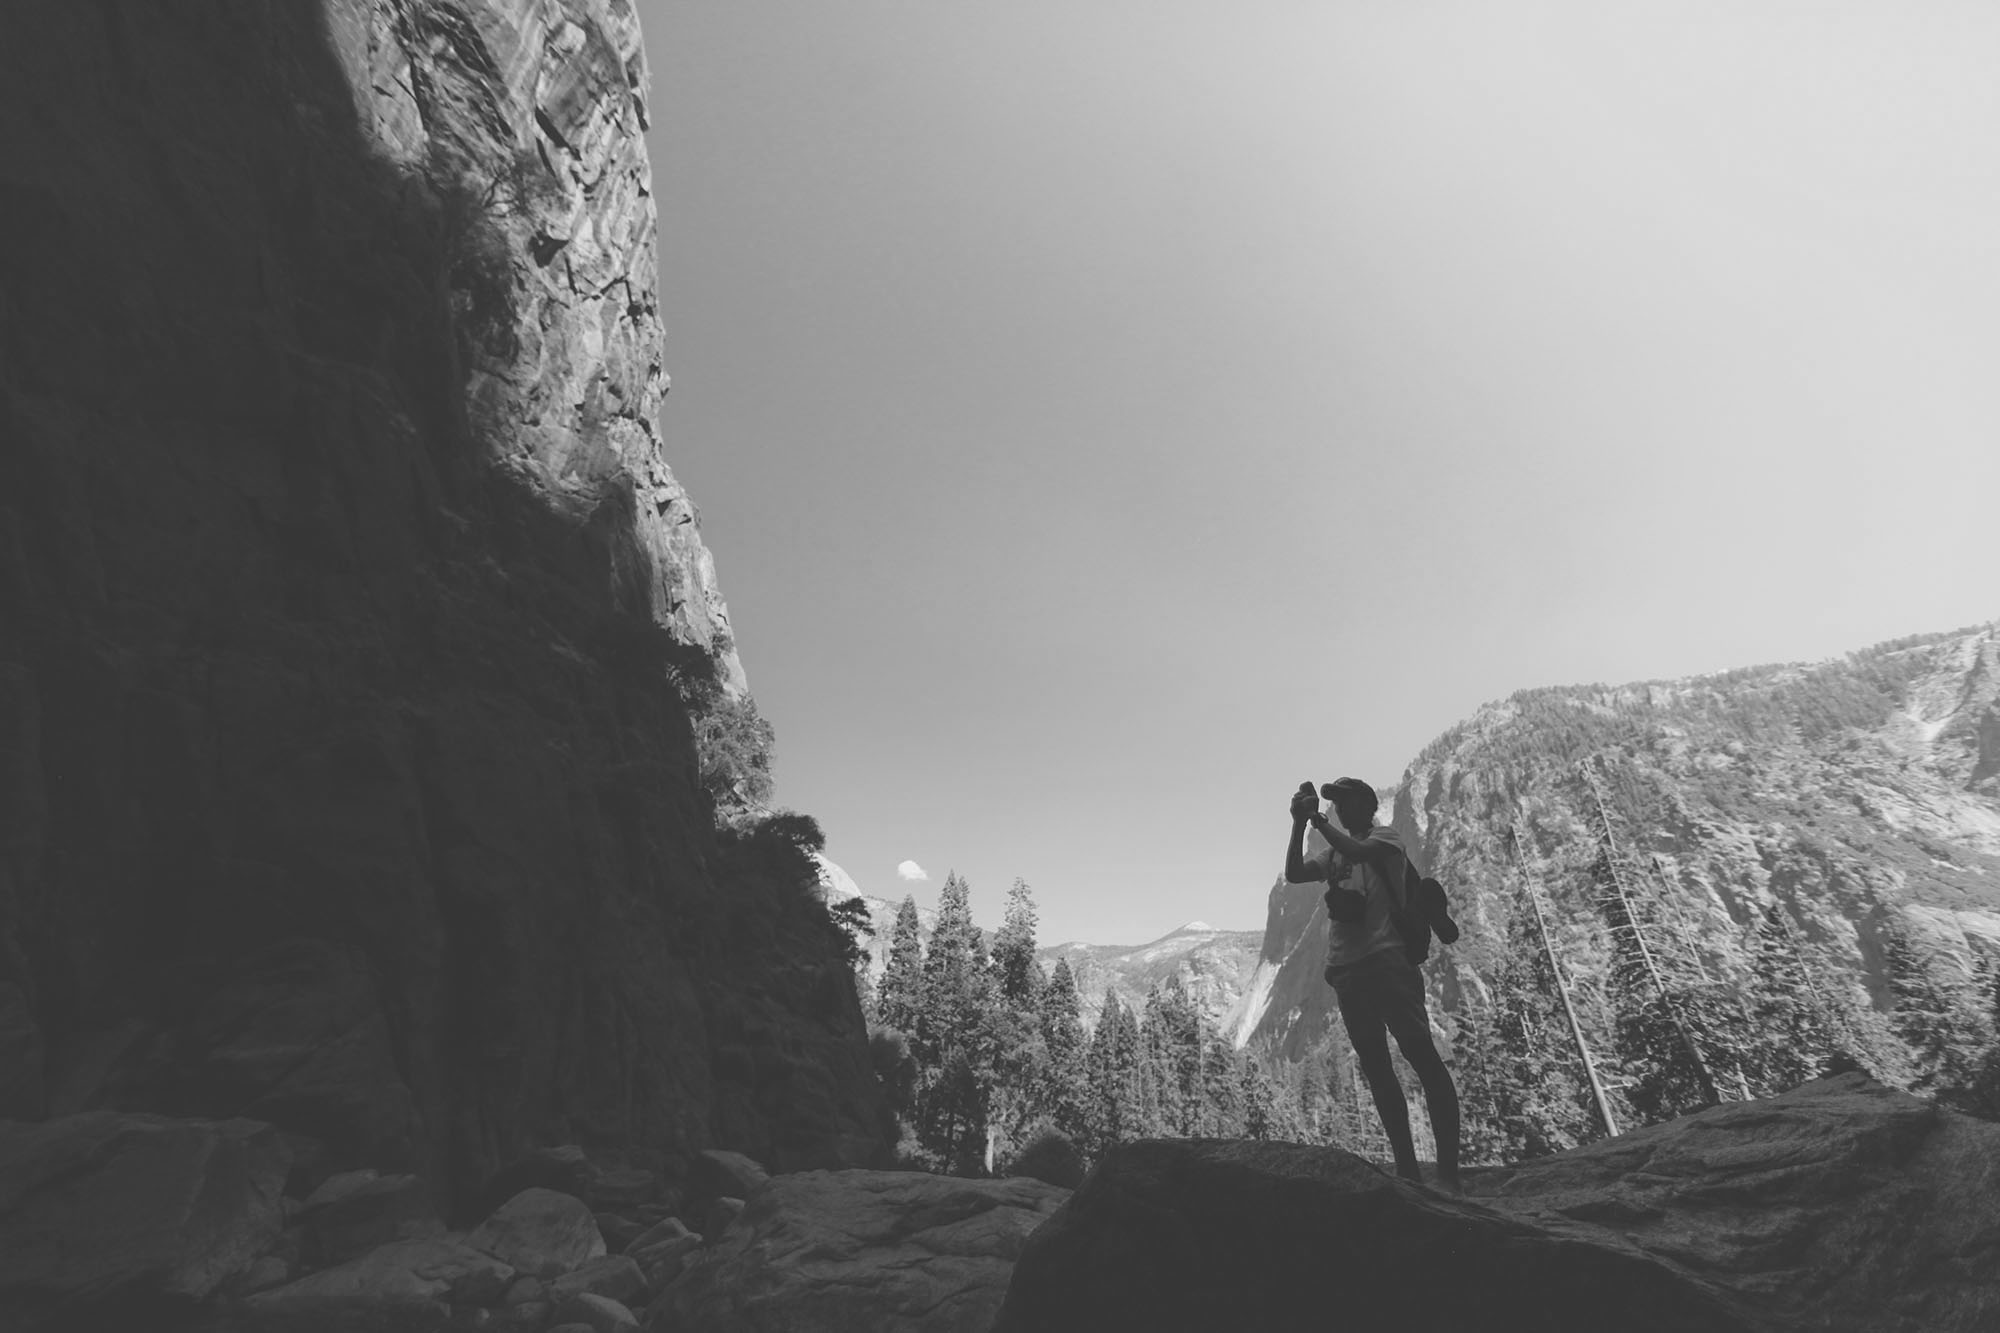
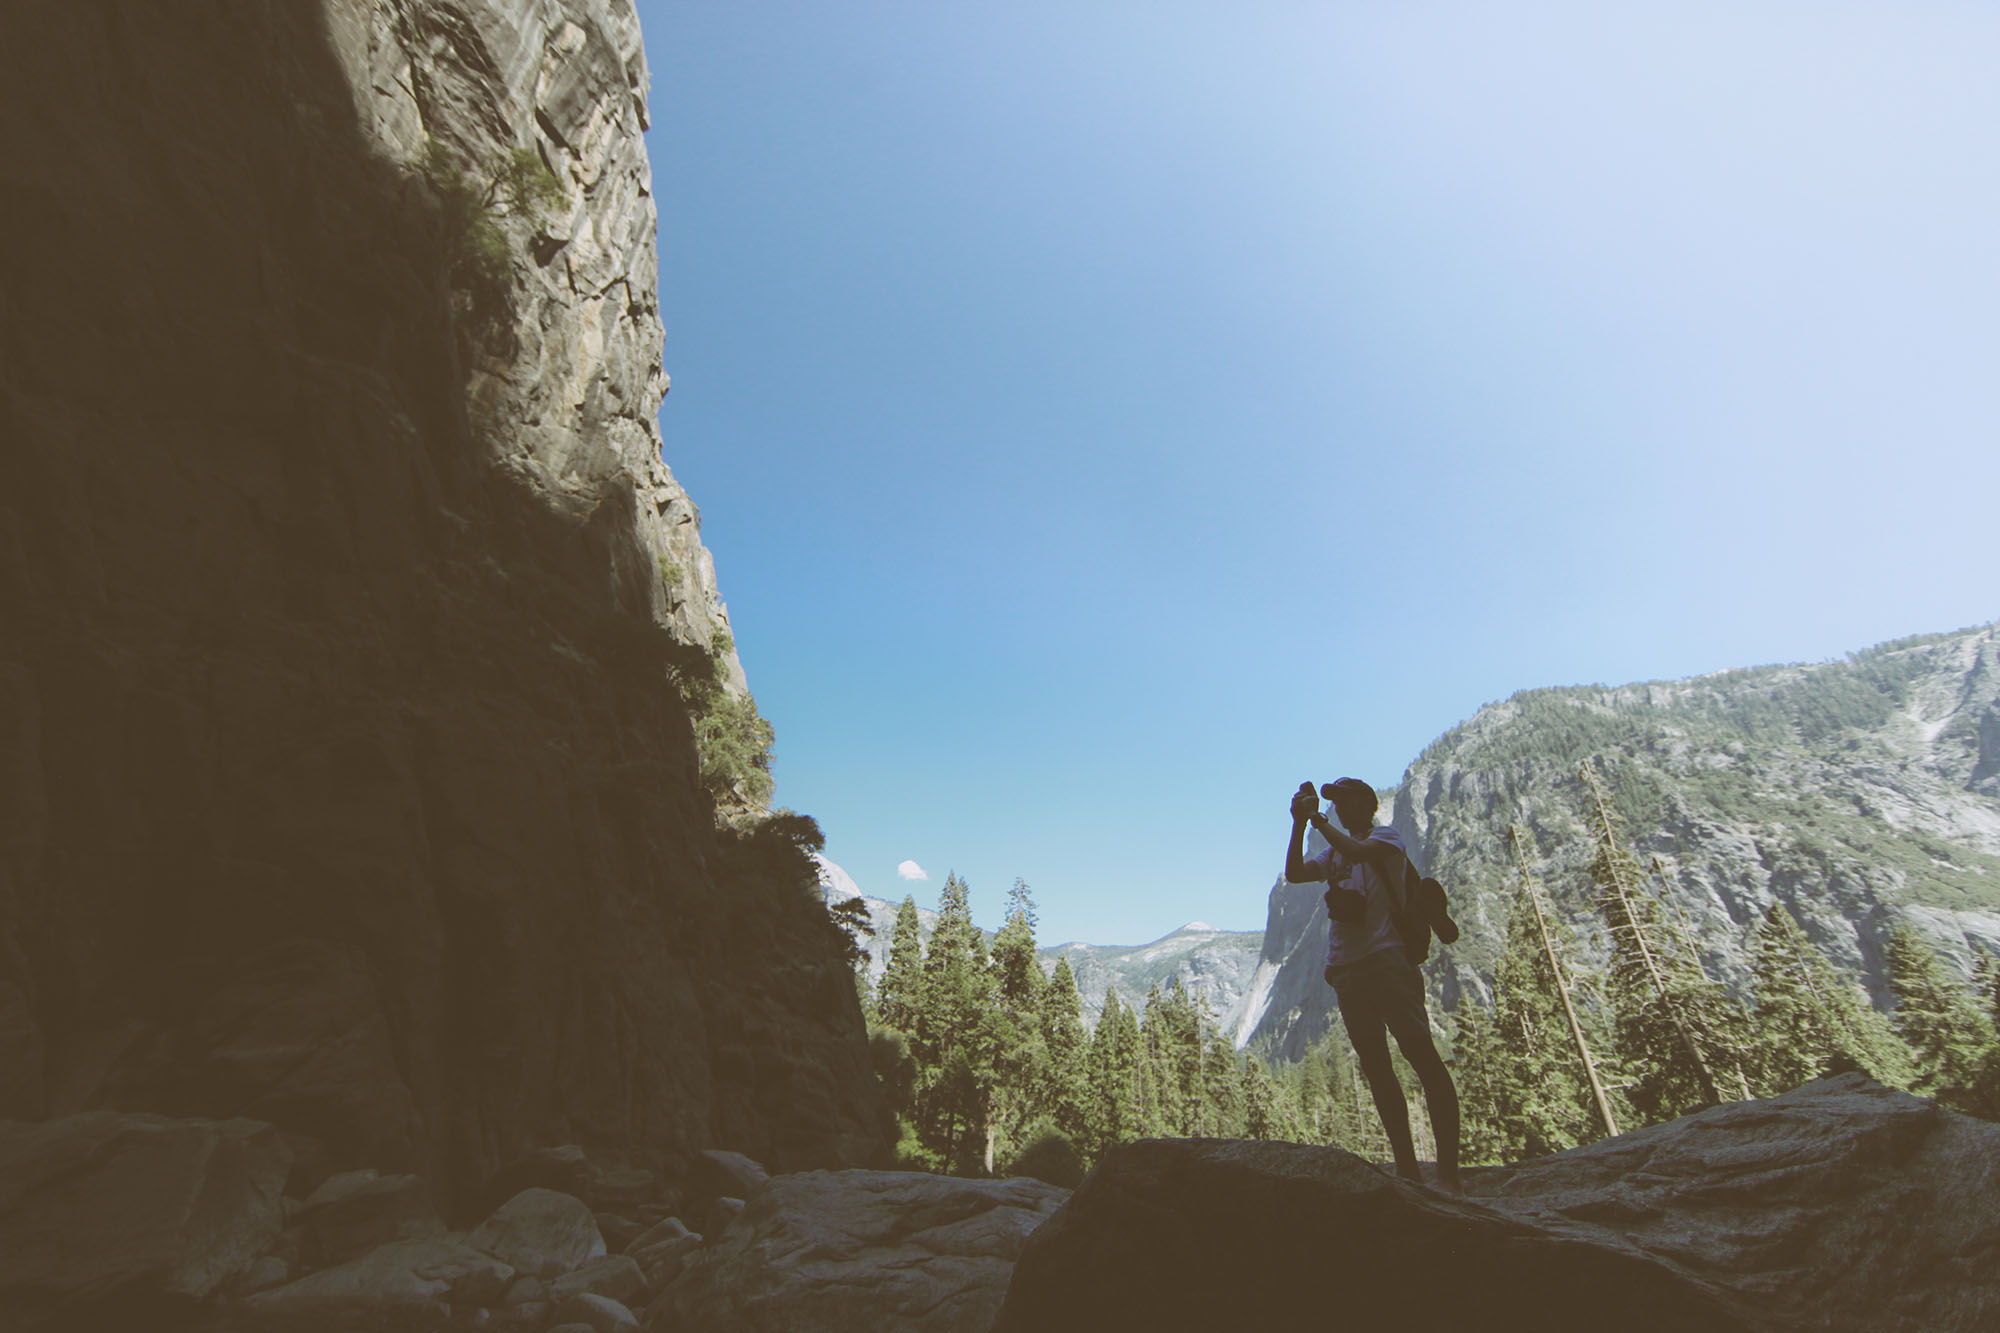
Added colored background for full view

diff --git a/style.css b/style.css
@@ -225,7 +225,7 @@ body {
 }
 
 html.touch {
-  background: #000 url('background.jpg') no-repeat 55% center;
+  background: #000 url('background-bw.jpg') no-repeat 55% center;
   -webkit-background-size: cover;
   -moz-background-size: cover;
   background-size: cover;
@@ -270,7 +270,7 @@ html.touch .navigation li::after {
 
 @media (max-width: 900px), (max-height: 500px) {
   html {
-    background: url('background.jpg') no-repeat 55% center;
+    background: url('background-bw.jpg') no-repeat 55% center;
     -webkit-background-size: cover;
     -moz-background-size: cover;
     background-size: cover;
